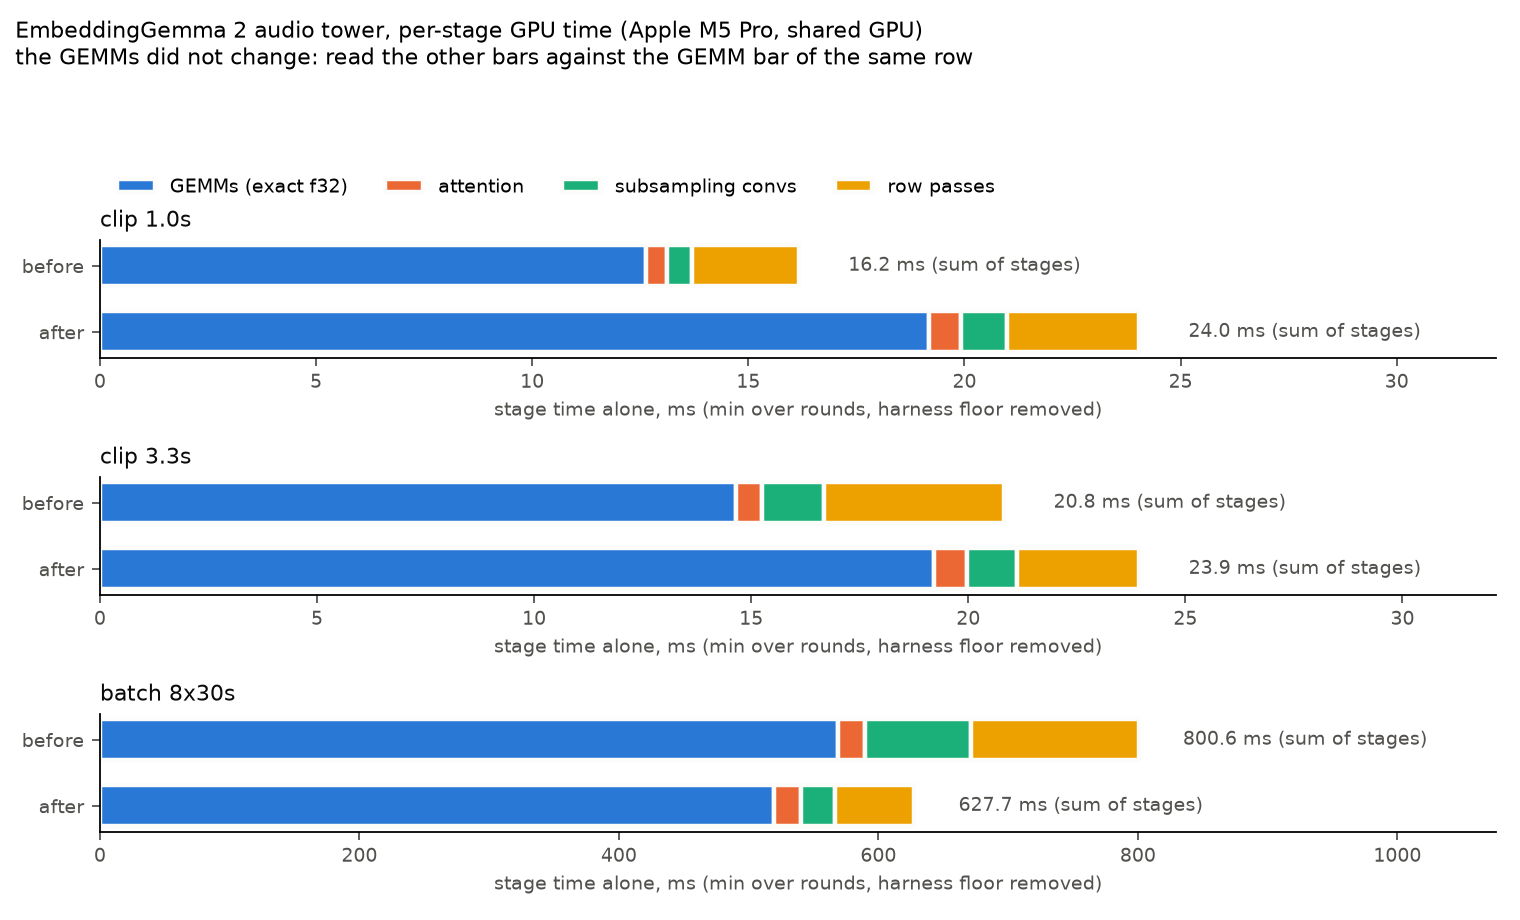
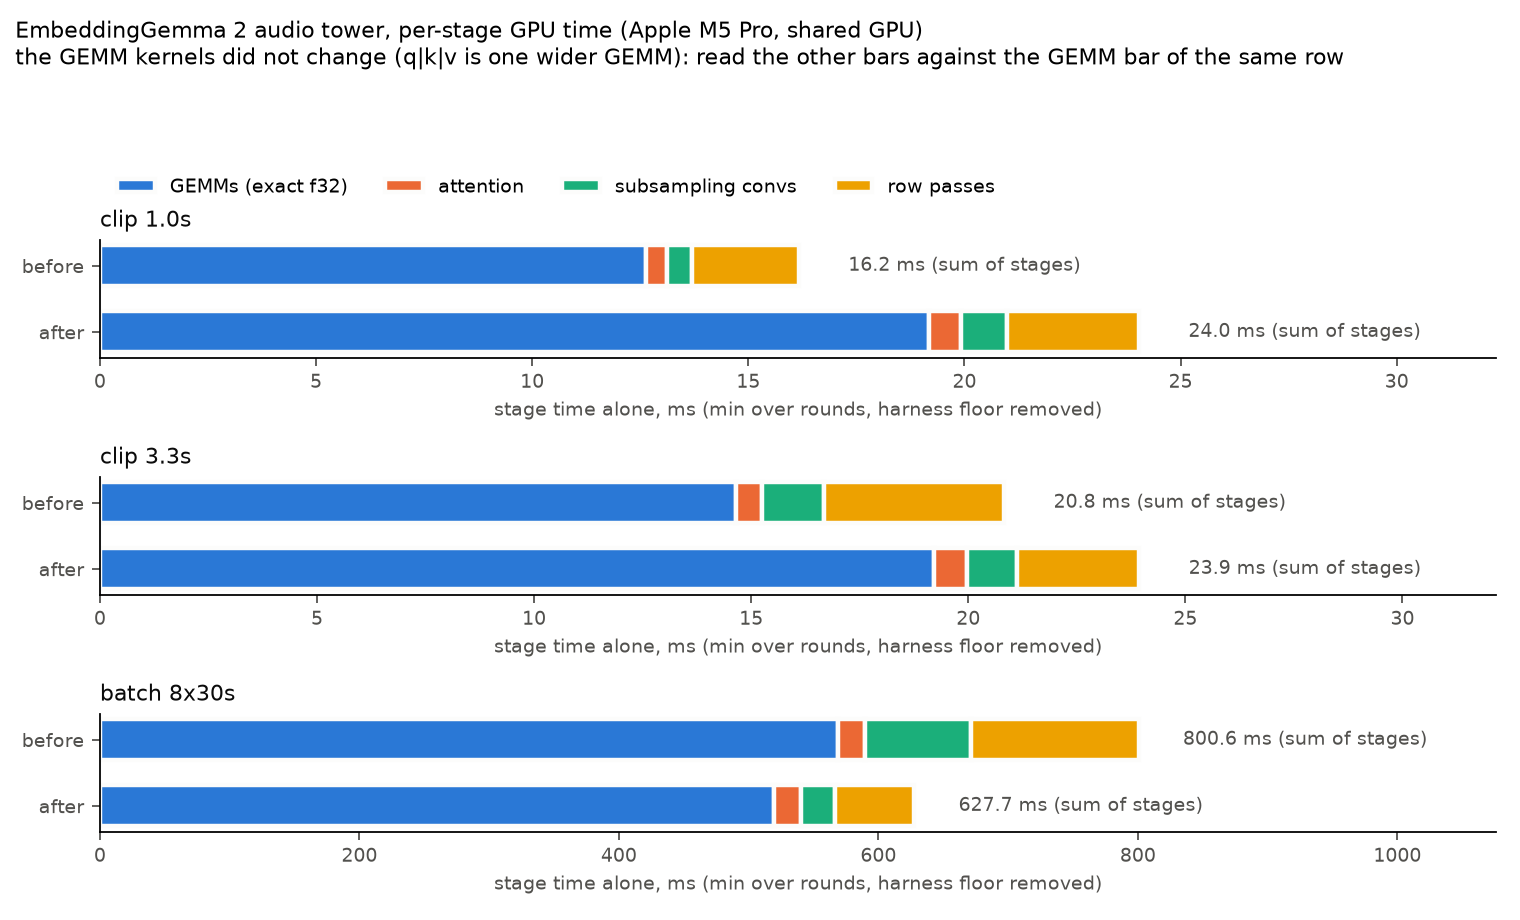
embedgemma2_audio: caveat the stage-alone numbers, name the q|k|v GEMM change in the profile notes

Changed region(s): [[0.0928, 0.0304, 0.8658, 0.0913]]

diff --git a/bench/results/embedgemma2_audio_profile_plot.py b/bench/results/embedgemma2_audio_profile_plot.py
@@ -84,7 +84,7 @@ for ax, wl in zip(axes, workloads):
     ax.set_xlim(0, ax.get_xlim()[1] * 1.28)
 axes[0].legend(ncol=4, fontsize=8.5, frameon=False, loc="lower left", bbox_to_anchor=(0, 1.22))
 fig.suptitle("EmbeddingGemma 2 audio tower, per-stage GPU time (Apple M5 Pro, shared GPU)\n"
-             "the GEMMs did not change: read the other bars against the GEMM bar of the same row",
+             "the GEMM kernels did not change (q|k|v is one wider GEMM): read the other bars against the GEMM bar of the same row",
              x=0.01, ha="left", fontsize=10)
 fig.tight_layout(rect=(0, 0, 1, 0.95))
 fig.savefig(root / "embedgemma2_audio_profile_m5pro.png", dpi=160)

diff --git a/docs/embedgemma2.md b/docs/embedgemma2.md
@@ -816,7 +816,8 @@ ratios range from 0.2x to 2.2x. Within the noise: no end-to-end speedup is claim
 from the benchmark. With `--evidence --max-spread 1.25` the drift gate refused all
 nine series of an 8-round run (spreads 1.9x to 3.7x), and no quiet window came in
 nine minutes of waiting. What the profile does show inside a run, where load
-touches the unchanged GEMMs and the changed stages alike: the time of everything
+touches the GEMM kernels (unchanged; q, k and v are one wider GEMM, which makes
+the ratio below slightly conservative) and the changed stages alike: the time of everything
 but the GEMMs, per millisecond of GEMM time, went from 0.28, 0.42 and 0.41 (1.0 s,
 3.3 s, batch) to 0.25, 0.25 and 0.21, so on the batch, where the GEMMs are 71-83 %
 of the forward, the passes outside the GEMMs went from about 29 % to 17 % of the

diff --git a/CHANGELOG.md b/CHANGELOG.md
@@ -87,7 +87,8 @@ All notable changes to `tessl` are recorded here. The format follows
   (`profile_embedgemma2_audio`, `bench_embedgemma2_audio`; `AudioStage` and
   `EmbedGemma2Audio::{set_stage_mask, clear_stage_mask}` are `#[doc(hidden)]`
   for the profiler). The second subsampling conv is an 8x8 simdgroup-MMA kernel
-  (64 → 14 ms on a batch of 8 clips of 30 s, stage alone); the residual adds and
+  (64 → 14 ms on a batch of 8 clips of 30 s, stage alone, two profile runs that
+  were not interleaved); the residual adds and
   norms, the GLU with the depthwise conv, norm and SiLU, and the q/k/v input
   clamps are fused (`eg2a_rms_norm` takes two row stages, `eg2a_lconv` replaces
   `eg2a_glu` and `eg2a_dwconv1d_causal`); q, k and v are one GEMM when their
